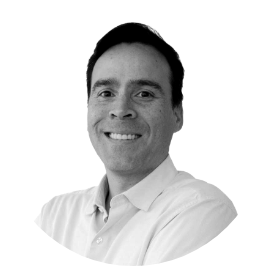
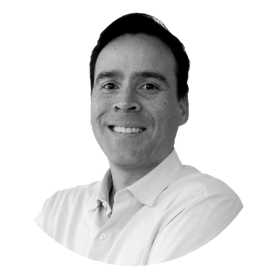
Cambios de dimensión de tarjetas

diff --git a/style.css b/style.css
@@ -668,7 +668,7 @@ img.volta-img {
     margin-top: 150px;
     display: grid;
     gap: 10px;
-    grid-template-columns: repeat(3, 0.4fr);
+    grid-template-columns: repeat(3, 0.3fr);
     align-content: center;
     justify-content: center;
 }
